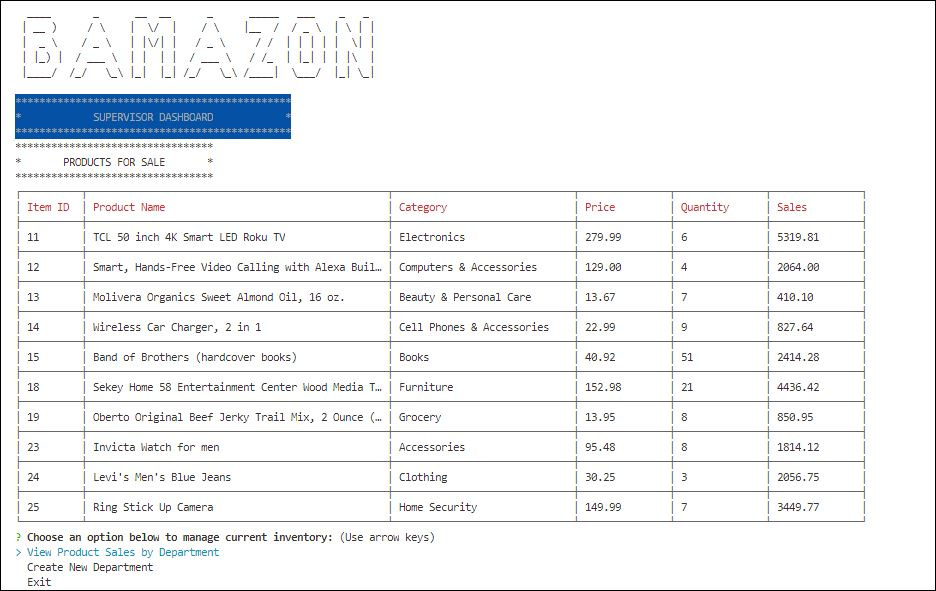
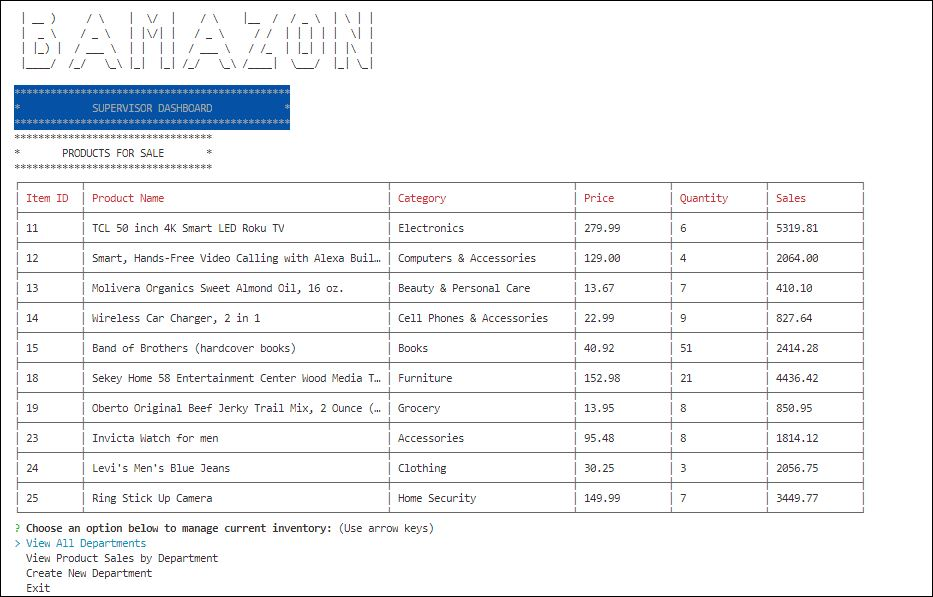
Added functions createDepartment, viewAllDepts in bamazonSupervisor.js. Updated readme file

Changed region(s): [[0.0, 0.0305, 0.9325, 1.0]]

diff --git a/bamazonSupervisor.js b/bamazonSupervisor.js
@@ -49,7 +49,7 @@ function addHeader(text){
 function validateNumeric(value) {
 	// Value must be a positive number
 	var number = (typeof parseFloat(value)) === 'number';
-	var positive = parseFloat(value) > 0;
+	var positive = parseFloat(value) >= 0;
 
 	if (number && positive) {
 		return true;
@@ -83,7 +83,7 @@ function displayInventory(){
 //view product sales by department
 function viewSalesByDept(){
     //prints the items for sale and their details
-    let query = "SELECT departments.department_id , departments.department_name , departments.over_head_costs, products.product_sales FROM departments ,products WHERE departments.department_name = products.department_name";
+    let query = "SELECT departments.department_id , departments.department_name , departments.over_head_costs, products.product_sales FROM departments ,products WHERE departments.department_name = products.department_name ORDER BY department_id";
     connection.query(query, function(err, res){
       if(err) throw err;
       console.log('\n*******************************************');
@@ -103,9 +103,12 @@ function viewSalesByDept(){
         name:"action",
         type: "list",
         message: "Choose an option below to manage current inventory:",
-        choices: ["Create New Department", "Exit"]
+        choices: ["View All Departments", "Create New Department", "Exit"]
       }]).then(function(answers){
         switch(answers.action){
+                case 'View All Departments':
+                    viewAllDepts();;
+                    break;
                 case 'Create New Department':
                     createDepartment();
                     break;
@@ -121,59 +124,99 @@ function viewSalesByDept(){
 
 function createDepartment(){
   inquirer.prompt([
-    {
-      name: "ID",
-      type: "input",
-      message: "Please enter the ID for the new department?"
-    },
+    
     {
       name: "Department",
       type: "input",
-      message: "Please enter the new department name to add to the database?"
+      message: "Please enter the new Department name to add to the database? "
     },
     {
       name:"Costs",
       type:"input",
-      message:"How much is the Over Head Costs of this department?",
+      message:"Enter Over Head Costs for this department: ",
+      default: 0,
+      validate: validateNumeric
+    }, 
+    {
+      name: "deptSales",
+      type: "input",
+      message: "Department Product Sales: ",
+      default: 0,
       validate: validateNumeric
     },
       
     ]).then(function(answers){
-      let id = answers.ID;
       let department = answers.Department;
       let costs = answers.Costs;
+      let sales = answers.deptSales;
       
       console.log('\n Adding New Department: \n\n Department = ' + department + '\n' +  
-                       ' Over Head Costs = ' + parseFloat(costs).toFixed(2) + '\n');
-      buildNewDept(id, department,costs); 
+                       ' Over Head Costs = ' + parseFloat(costs).toFixed(2) + '\n' +
+                       ' Sales = ' + parseFloat(sales).toFixed(2) + '\n' );
+      buildNewDept(department,costs,sales); 
+      
     });
-    // displayInventory();
-    
 };
 
-function buildNewDept(id, dept, costs){
+function buildNewDept(dept,costs,sales){
     // Create the insertion query string
 	// Add new product to the db
-  let default_sales = 0;
-  
+   
   connection.query(
     "INSERT INTO departments SET ?",
     {
-      department_id: id,
       department_name: dept,
       over_head_costs: costs,
-      department_sales: default_sales
+      department_sales: sales
       
     },
     function (error, res) {
-    if (error) throw error;
-
-    console.log('New department has been added to the database under ID ' + res.insertId + '.');
-    console.log("\n---------------------------------------------------------------------\n");
-    // End the database connection
-    // connection.end();
-  });
+      if (error) throw error;
+      console.log(res);
+      console.log('New department has been added to the database under ID ' + res.insertId + '.');
+      console.log("\n---------------------------------------------------------------------\n");
+      // End the database connection
+      // connection.end();
+    });
   viewSalesByDept();
+};
+
+function viewAllDepts(){
+  console.log('*********************************');
+  console.log('*         ALL DEPARTMENTS       *');
+  console.log('*********************************');
+  let querySelect = "SELECT * FROM departments";
+  connection.query(querySelect, function(err, res){
+    if(err) throw err;
+    let displayTable = new Table ({
+      head: ["Department ID", "Department Name"],
+      colWidths: [20,50]
+    });
+    for(let i = 0; i < res.length; i++){
+      displayTable.push([res[i].department_id,res[i].department_name]);
+    }
+    console.log(displayTable.toString());
+    inquirer.prompt([{
+      name:"action",
+      type: "list",
+      message: "Choose an option below to manage current inventory:",
+      choices: ["Create New Department", "View Product Sales by Department", "Exit"]
+    }]).then(function(answers){
+      switch(answers.action){
+              case 'Create New Department':
+                  createDepartment();
+                  break;
+              case 'View Product Sales by Department':
+                  viewSalesByDept();
+                  break;
+              case 'Exit':
+                  console.log('Bye!');
+                  process.exit(22);
+                  break;		
+      }
+    });
+    
+  });
 };
 
 function supervisorInquirer(){
@@ -181,9 +224,12 @@ function supervisorInquirer(){
 		name:"action",
 		type: "list",
 		message: "Choose an option below to manage current inventory:",
-		choices: ["View Product Sales by Department", "Create New Department", "Exit"]
+		choices: ["View All Departments", "View Product Sales by Department", "Create New Department", "Exit"]
 	}]).then(function(answers){
 		switch(answers.action){
+            case 'View All Departments':
+                viewAllDepts();
+                break;
             case 'View Product Sales by Department':
                 viewSalesByDept();
                 break;

diff --git a/bamazonManager.js b/bamazonManager.js
@@ -59,7 +59,7 @@ function validateInteger(value) {
 function validateNumeric(value) {
 	// Value must be a positive number
 	var number = (typeof parseFloat(value)) === 'number';
-	var positive = parseFloat(value) > 0;
+	var positive = parseFloat(value) >= 0;
 
 	if (number && positive) {
 		return true;

diff --git a/README.md b/README.md
@@ -67,6 +67,8 @@ After adding the new product, the app lists the inventory updated.
 ## Module `bamazonSupervisor.js`: Supervisor View. 
 
 Running this application will first display a table with all the products for sale and right after a set of menu options:
+   
+   * View All Departments
 
    * View Product Sales by Department
    
@@ -85,3 +87,14 @@ For this module, a new table called `departments` was created. We used the mysql
 When a supervisor selects `View Product Sales by Department`, the app displays a summarized table in their terminal/bash window as the following:
 
 ![Results](/screenshots/bamazonSupervisor-view2.JPG)
+
+If supervisor selects `Create New Department`, the app prompts to input the data:
+
+![Results](/screenshots/bamazonSupervisor-new-dept.JPG)
+
+To view a list of all of the Departments available:
+
+![Results](/screenshots/bamazonSupervisor-view-departments.JPG)
+
+
+
